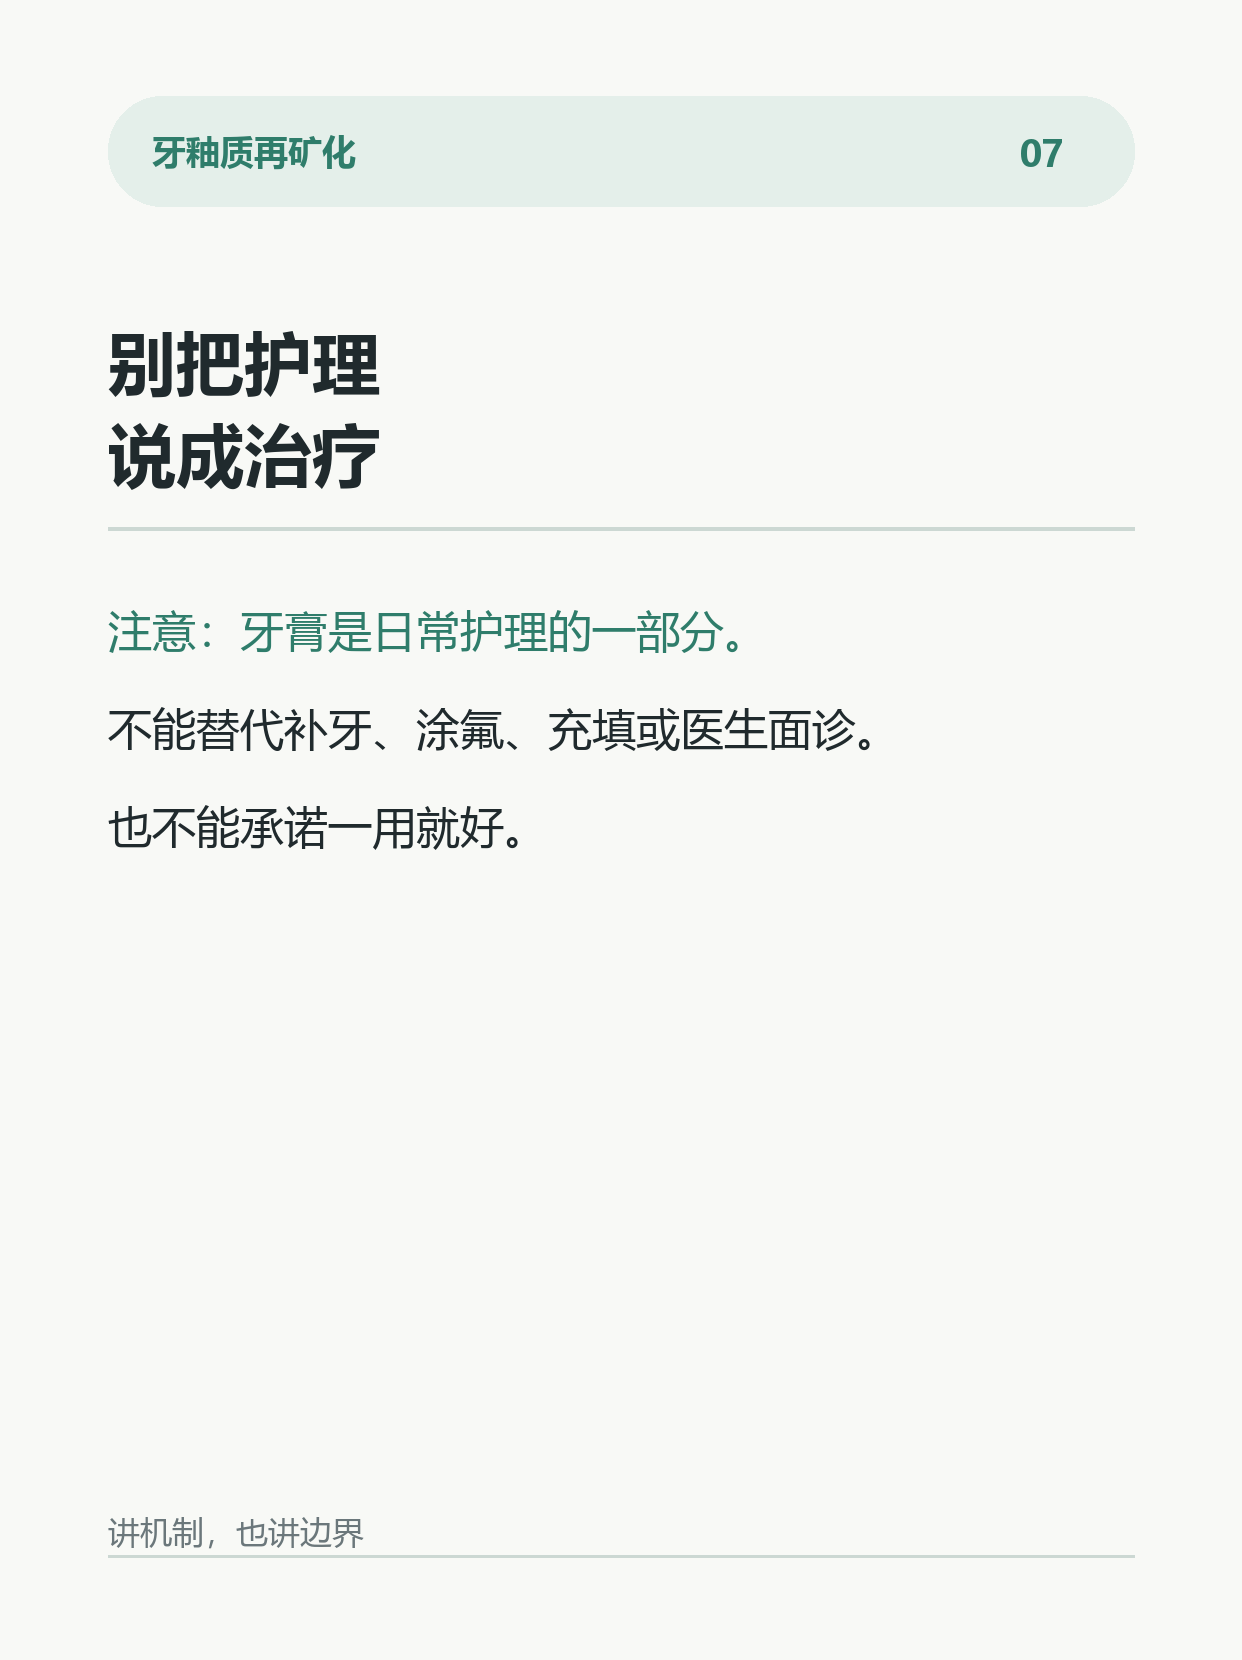
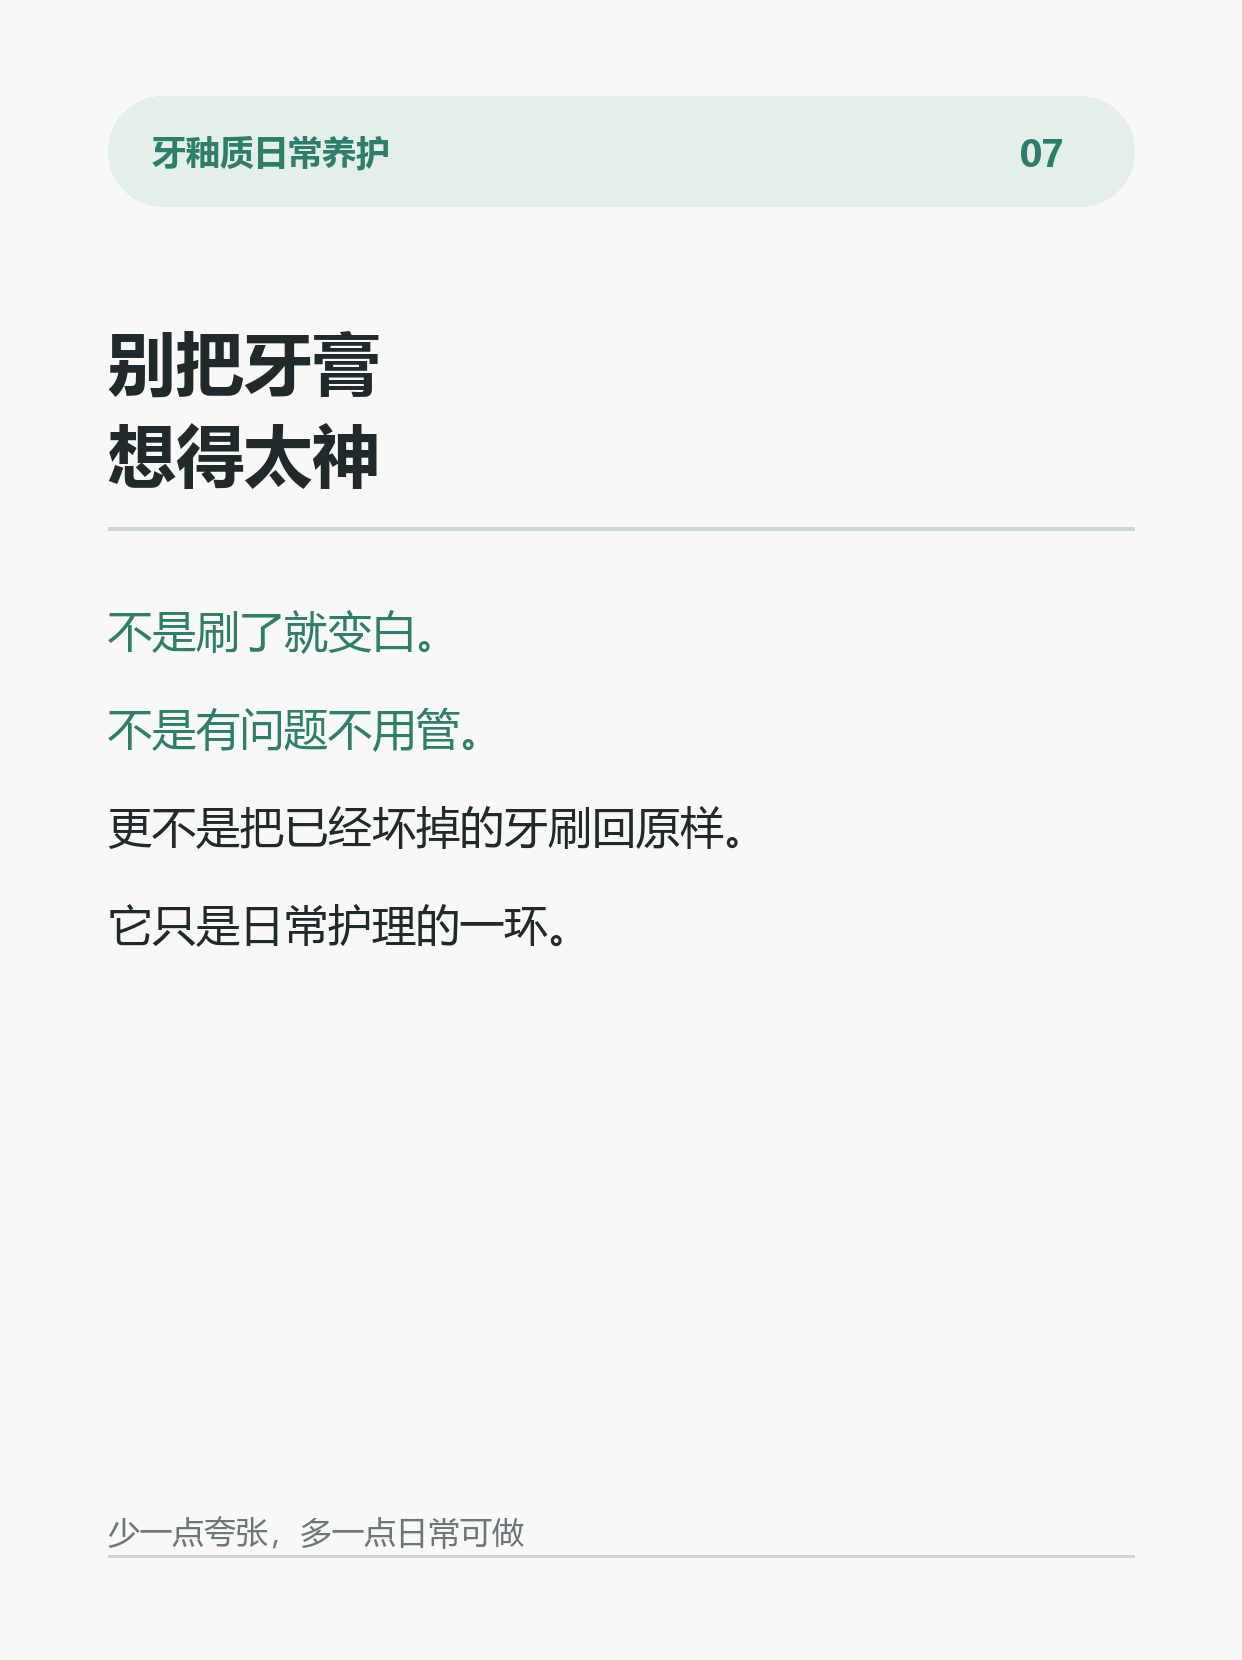
Make ACPF preview more lifestyle compliant

diff --git a/acpf-acpf/index.html b/acpf-acpf/index.html
@@ -3,7 +3,7 @@
 <head>
   <meta charset="utf-8">
   <meta name="viewport" content="width=device-width, initial-scale=1">
-  <title>小红书预览：ACPF活性磷酸钙氟讲清楚</title>
+  <title>小红书预览：喝酸饮牙发涩？先看ACPF</title>
   <style>
     :root {
       color-scheme: light;
@@ -99,7 +99,7 @@
 <body>
   <main class="page">
     <section class="panel">
-      <h1>ACPF活性磷酸钙氟讲清楚</h1>
+      <h1>喝酸饮牙发涩？先看ACPF</h1>
       <div class="meta">账号：大牙笑哈哈 · 状态：待审核预览，未发布 · 版本：ACPF新版</div>
       <h2>图文卡片</h2>
       <div class="cards">
@@ -114,63 +114,66 @@
       </div>
       <h2>正文</h2>
       <div class="body">
-        <p>很多人看到“牙釉质修护”“再矿化修复”，第一反应是：</p>
-        <p>是不是能把牙重新长回来？</p>
-        <p>先说结论：不是。</p>
-        <p>牙釉质没有活细胞，已经形成龋洞、明显缺损，不能靠牙膏刷回去。</p>
-        <p>真正值得关注的是更早一步：</p>
-        <p>牙面还没有坏成洞，只是开始发白、发涩、粗糙，或者正畸托槽周围出现白斑。</p>
-        <p>这个阶段，核心问题通常是“脱矿”。</p>
-        <p>酸性环境会一点点带走牙釉质里的矿物质。</p>
-        <p>如果清洁、饮食频率、含氟和钙磷矿物护理都跟不上，脱矿就可能继续发展。</p>
-        <p>所以再矿化护理的重点，不是承诺“治好”，而是帮助牙面维持一个更有利于矿物沉积的环境。</p>
-        <p>ACPF/ACP 这类活性磷酸钙氟体系，讨论的就是这个方向：</p>
-        <p>钙、磷，是牙釉质矿物结构相关的重要元素；</p>
-        <p>氟，可以参与形成更耐酸的矿物环境；</p>
-        <p>活性磷酸钙氟，则是把钙磷氟矿物体系放到日常口腔护理里理解。</p>
-        <p>简单说：</p>
-        <p>它不是补牙材料。</p>
-        <p>不是把牙釉质重新长出来。</p>
-        <p>也不是替代看牙。</p>
-        <p>它更适合放在这些场景里理解：</p>
-        <p>正畸期担心托槽周围白斑；</p>
-        <p>经常喝酸饮、咖啡、茶，牙面容易发涩；</p>
-        <p>美白前后想先把牙釉质状态养稳；</p>
-        <p>孩子或成人有早期脱矿风险；</p>
-        <p>日常想做温和的牙釉质矿物护理。</p>
-        <p>但边界一定要讲清楚：</p>
-        <p>已经有龋洞、疼痛、冷热刺激明显、白斑越来越大，建议面诊。</p>
-        <p>牙膏是日常护理的一部分，不是治疗方案。</p>
-        <p>好的牙釉质护理，不是追求一夜变白。</p>
-        <p>而是早点发现脱矿信号，少让牙釉质继续走弯路。</p>
+        <p>夏天很多人有个小习惯：</p>
+        <p>冰美式、柠檬茶、气泡水、奶茶，轮着喝。</p>
+        <p>当下很爽。</p>
+        <p>但晚上刷牙时，牙面摸起来发涩、发粗，喝冷水还有点酸。</p>
+        <p>这时候别急着只问“怎么变白”。</p>
+        <p>可以先问一句：牙釉质状态还稳不稳？</p>
+        <p>牙釉质不像皮肤。</p>
+        <p>它没有那种“自己慢慢长回来”的能力。</p>
+        <p>早期一些小信号，往往不是突然出现的：</p>
+        <p>牙面发白。</p>
+        <p>托槽旁边有白白一圈。</p>
+        <p>喝酸饮后牙面发涩。</p>
+        <p>刷牙时总觉得某几颗牙更敏感。</p>
+        <p>这些情况，很多时候和牙面矿物平衡有关。</p>
+        <p>ACPF/ACP 活性磷酸钙氟，可以放在这个思路里理解：</p>
+        <p>钙、磷，是牙釉质矿物结构相关的元素；</p>
+        <p>氟，常被用于帮助牙面建立更耐酸的矿物环境；</p>
+        <p>活性磷酸钙氟，关注的是把钙磷氟矿物支持放进日常口腔护理里。</p>
+        <p>说简单点：</p>
+        <p>它不是“刷了就变白”。</p>
+        <p>也不是“有问题不用管”。</p>
+        <p>更不是把已经坏掉的牙刷回原样。</p>
+        <p>它更适合这些生活场景：</p>
+        <p>经常喝酸饮、咖啡、茶；</p>
+        <p>正在戴牙套，担心托槽周围白斑；</p>
+        <p>准备做美白，想先把牙面状态养稳；</p>
+        <p>孩子爱喝饮料、刷牙又不够细；</p>
+        <p>牙面最近发涩、发粗，想把日常护理做细一点。</p>
+        <p>我更建议把它当作“牙釉质日常养护”的一环。</p>
+        <p>真正重要的不是追求一夜变白。</p>
+        <p>而是少一点酸饮频率，刷牙别太用力，含氟和钙磷矿物护理跟上，定期做口腔检查。</p>
+        <p>牙齿好看，前提是牙釉质状态先稳住。</p>
       </div>
       <h2>话题标签</h2>
       <div class="tags">
         <span class="tag">#牙釉质</span>
         <span class="tag">#牙齿脱矿</span>
-        <span class="tag">#再矿化修复</span>
+        <span class="tag">#再矿化护理</span>
         <span class="tag">#威瑞敏专业再矿化</span>
         <span class="tag">#ACPF</span>
         <span class="tag">#活性磷酸钙氟</span>
-        <span class="tag">#钙磷牙膏</span>
+        <span class="tag">#酸饮</span>
+        <span class="tag">#奶茶咖啡</span>
         <span class="tag">#正畸白斑</span>
         <span class="tag">#护牙日常</span>
-        <span class="tag">#口腔护理</span>
       </div>
       <h2>参考来源</h2>
       <p class="note">苏州信和隆医疗器械有限公司官网：复合活性磷酸钙氟 ACPF/ACP 技术资料；Hydroxyapatite toothpaste for prevention and remineralization of initial caries lesions: systematic review and meta-analysis, 2025；Enamel remineralization strategies using fluoride, calcium phosphate and biomimetic mineral systems: recent systematic review evidence, 2024-2025；河北医科大学学位论文：王梦阳《三类具有再矿化功能牙膏体外离子释放的研究》，2021</p>
       <h2>合规边界</h2>
-      <p class="note">当前版本已统一为 ACPF/ACP 活性磷酸钙氟产品成分口径。文案避免治疗承诺、替代补牙、保证防龋、永久变白等高风险表达。</p>
+      <p class="note">当前版本已统一为 ACPF/ACP 活性磷酸钙氟产品成分口径。文案使用日常养护表达，避免替代补牙、保证防龋、永久变白等高风险说法。</p>
     </section>
     <aside class="phone">
       <div class="screen">
         <img src="cards/card_01.png" alt="手机端封面预览">
         <div class="screen-content">
-          <div class="screen-title">ACPF活性磷酸钙氟讲清楚</div>
-          <div class="screen-body">很多人看到“牙釉质修护”“再矿化修复”，第一反应是：
-是不是能把牙重新长回来？
-先说结论：不是。
-牙釉质没有活细胞，已经形成龋洞、明显缺损，不能靠牙膏刷回去。</div>
+          <div class="screen-title">喝酸饮牙发涩？先看ACPF</div>
+          <div class="screen-body">夏天很多人有个小习惯：
+冰美式、柠檬茶、气泡水、奶茶，轮着喝。
+当下很爽。
+但晚上刷牙时，牙面摸起来发涩、发粗，喝冷水还有点酸。</div>
         </div>
       </div>
     </aside>
